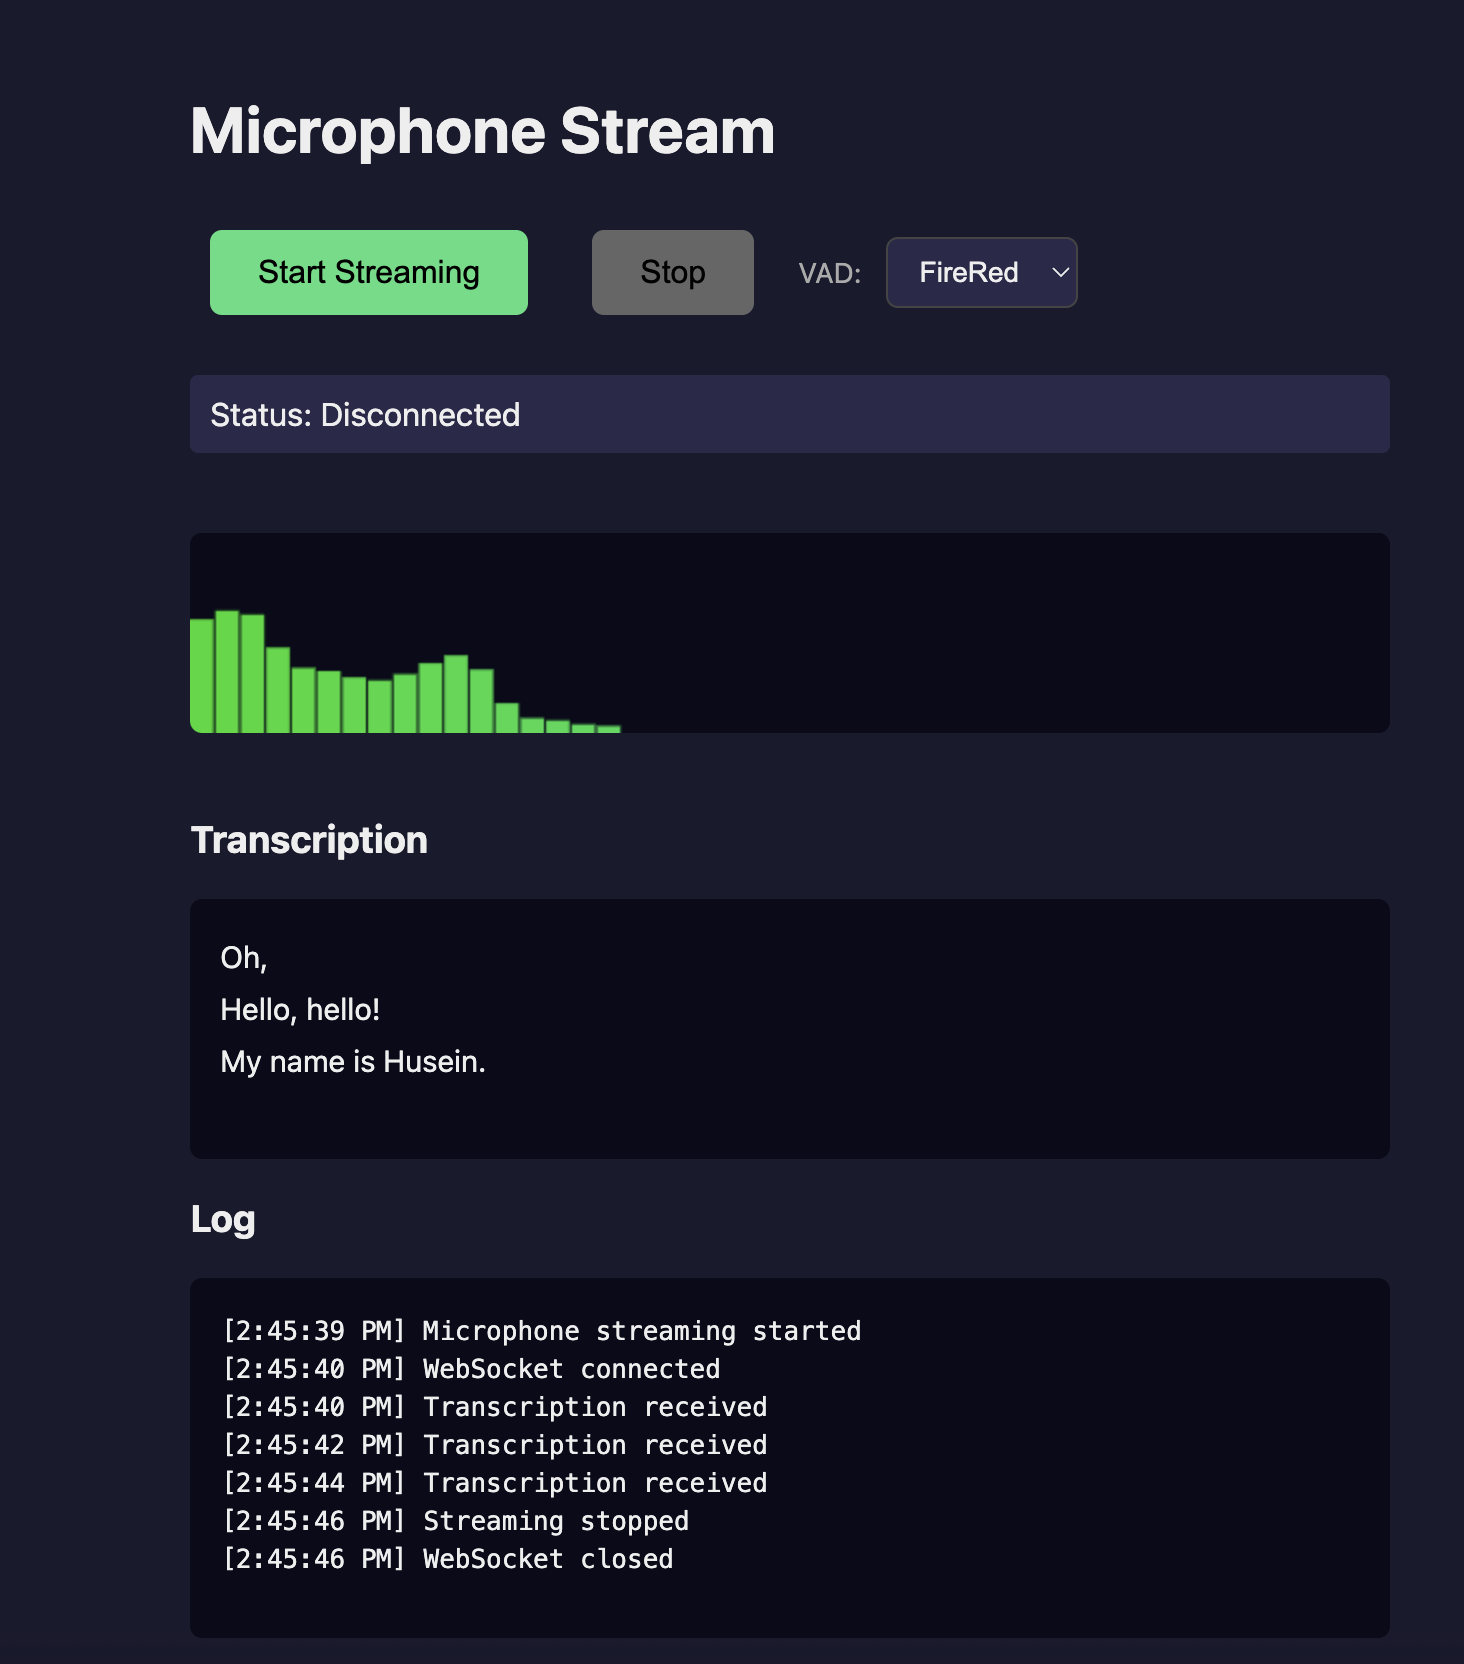
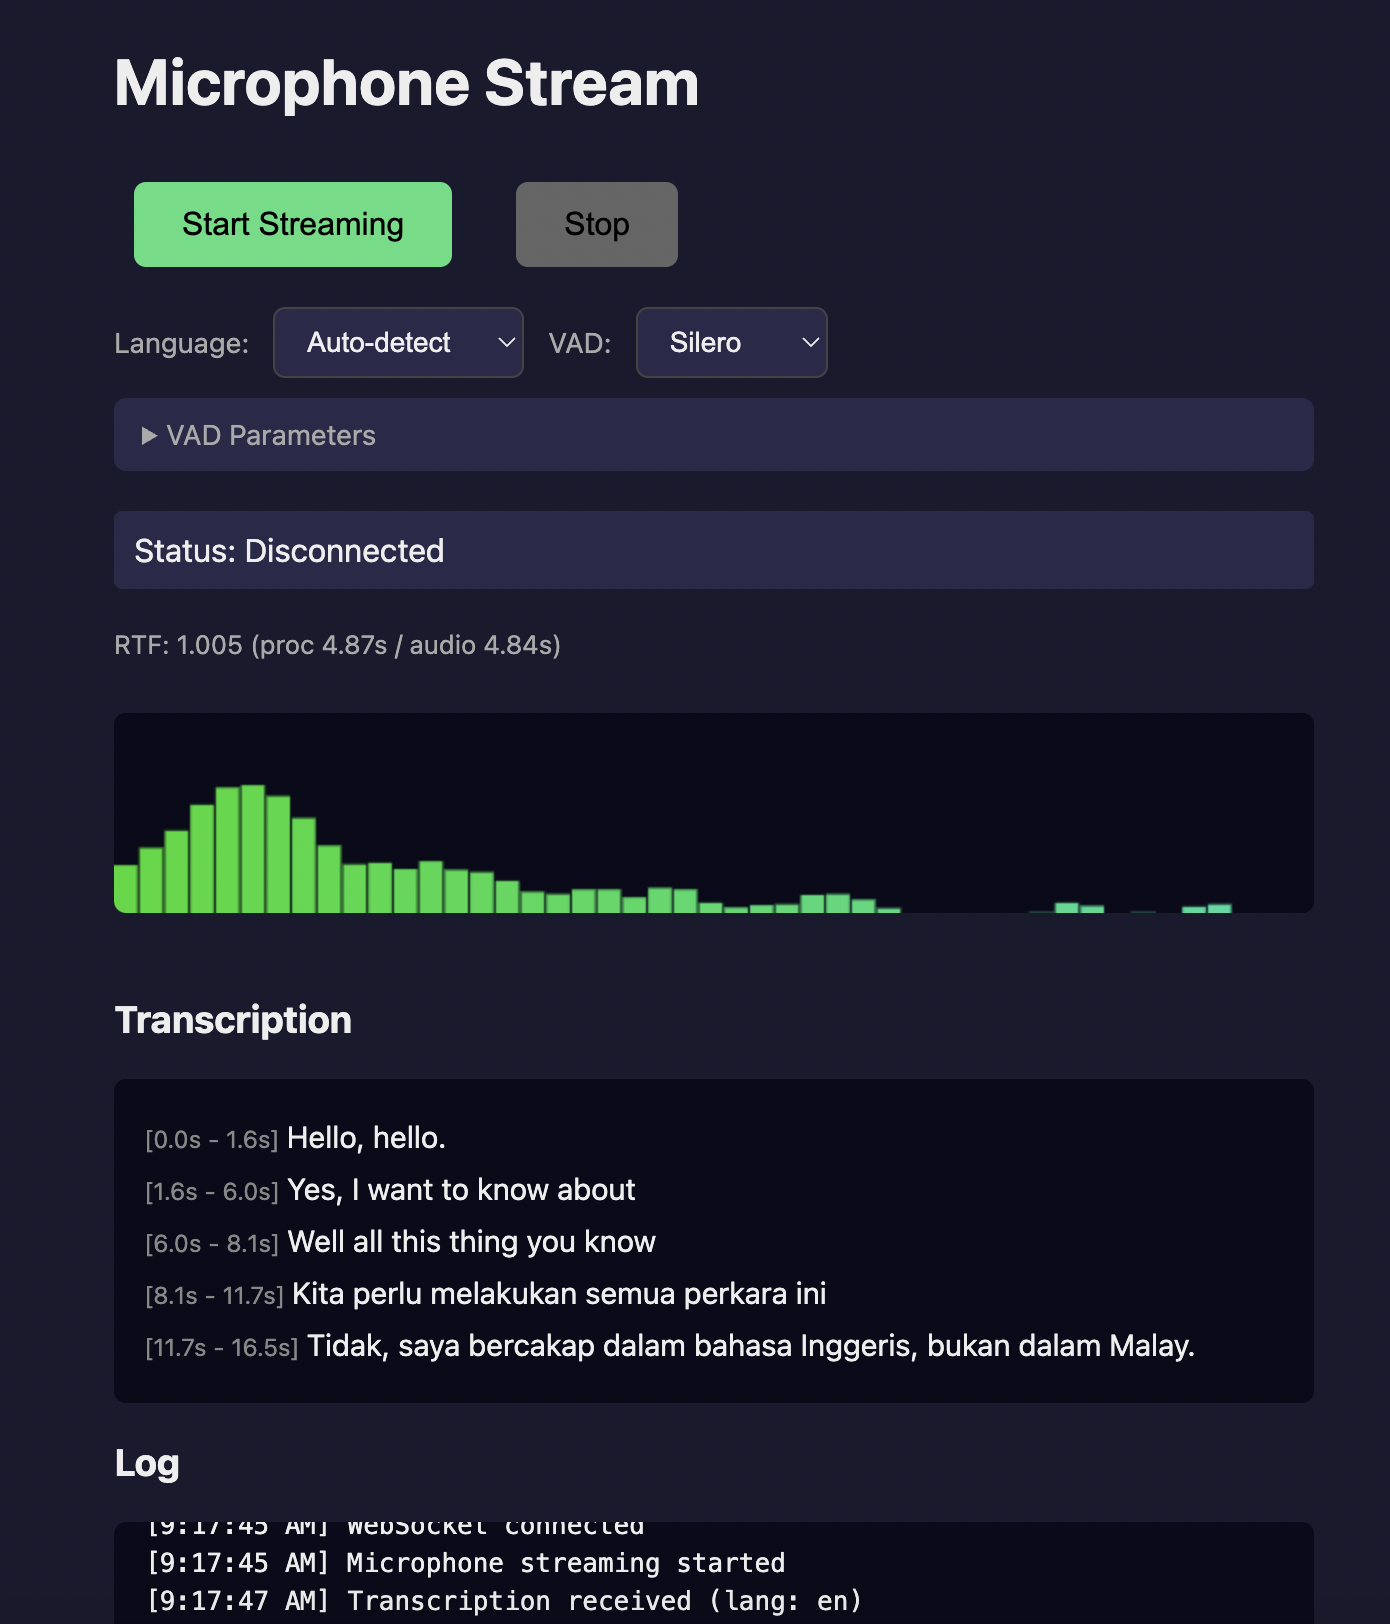
auto detect language

diff --git a/stt_api/streaming.html b/stt_api/streaming.html
@@ -98,6 +98,46 @@
             cursor: pointer;
         }
         select:focus { outline: none; border-color: #4ade80; }
+        .vad-params {
+            background: #2a2a4a;
+            border-radius: 6px;
+            margin: 10px 0;
+        }
+        .vad-params summary {
+            padding: 10px 14px;
+            cursor: pointer;
+            font-size: 14px;
+            color: #aaa;
+            user-select: none;
+        }
+        .vad-params summary:hover { color: #eee; }
+        .vad-params-grid {
+            display: grid;
+            grid-template-columns: 1fr 1fr;
+            gap: 10px;
+            padding: 10px 14px 14px;
+        }
+        .vad-param {
+            display: flex;
+            flex-direction: column;
+            gap: 4px;
+        }
+        .vad-param label {
+            font-size: 12px;
+            color: #888;
+        }
+        .vad-param input {
+            padding: 6px 10px;
+            font-size: 14px;
+            background: #1a1a2e;
+            color: #eee;
+            border: 1px solid #444;
+            border-radius: 4px;
+            width: 100%;
+            box-sizing: border-box;
+        }
+        .vad-param input:focus { outline: none; border-color: #4ade80; }
+        .vad-param input:disabled { opacity: 0.5; cursor: not-allowed; }
     </style>
 </head>
 <body>
@@ -106,6 +146,16 @@
     <div class="controls">
         <button id="startBtn">Start Streaming</button>
         <button id="stopBtn" disabled>Stop</button>
+    </div>
+    <div class="controls">
+        <label for="languageSelect">Language:</label>
+        <select id="languageSelect">
+            <option value="null">Auto-detect</option>
+            <option value="ms">Malay (ms)</option>
+            <option value="en">English (en)</option>
+            <option value="zh">Chinese (zh)</option>
+            <option value="ta">Tamil (ta)</option>
+        </select>
         <label for="vadSelect">VAD:</label>
         <select id="vadSelect">
             <option value="silero">Silero</option>
@@ -113,7 +163,34 @@
         </select>
     </div>
 
+    <details class="vad-params" id="vadParams">
+        <summary>VAD Parameters</summary>
+        <div class="vad-params-grid">
+            <div class="vad-param">
+                <label for="vadThreshold">vad_threshold (0–1)</label>
+                <input type="number" id="vadThreshold" min="0" max="1" step="0.05" value="0.5">
+            </div>
+            <div class="vad-param">
+                <label for="minSilentMs">minimum_silent_ms</label>
+                <input type="number" id="minSilentMs" min="0" step="50" value="400">
+            </div>
+            <div class="vad-param">
+                <label for="minSpeechMs">minimum_speech_ms</label>
+                <input type="number" id="minSpeechMs" min="0" step="50" value="250">
+            </div>
+            <div class="vad-param">
+                <label for="minTriggerVadMs">minimum_trigger_vad_ms</label>
+                <input type="number" id="minTriggerVadMs" min="0" step="100" value="1500">
+            </div>
+            <div class="vad-param">
+                <label for="rejectSegmentVadRatio">reject_segment_vad_ratio (0–1)</label>
+                <input type="number" id="rejectSegmentVadRatio" min="0" max="1" step="0.05" value="0.7">
+            </div>
+        </div>
+    </details>
+
     <div id="status">Status: Ready</div>
+    <div id="rtfDisplay" style="font-size:13px;color:#aaa;margin:4px 0;min-height:18px;"></div>
 
     <canvas id="visualizer"></canvas>
 
@@ -126,7 +203,15 @@
     <script>
         const startBtn = document.getElementById('startBtn');
         const stopBtn = document.getElementById('stopBtn');
+        const languageSelect = document.getElementById('languageSelect');
         const vadSelect = document.getElementById('vadSelect');
+        const rtfDisplay = document.getElementById('rtfDisplay');
+        const vadThresholdInput = document.getElementById('vadThreshold');
+        const minSilentMsInput = document.getElementById('minSilentMs');
+        const minSpeechMsInput = document.getElementById('minSpeechMs');
+        const minTriggerVadMsInput = document.getElementById('minTriggerVadMs');
+        const rejectSegmentInput = document.getElementById('rejectSegmentVadRatio');
+        const vadParamInputs = [vadThresholdInput, minSilentMsInput, minSpeechMsInput, minTriggerVadMsInput, rejectSegmentInput];
         const status = document.getElementById('status');
         const transcription = document.getElementById('transcription');
         const log = document.getElementById('log');
@@ -139,6 +224,8 @@
         let processor = null;
         let analyser = null;
         let animationId = null;
+        let lastTranscriptionTime = null;
+        let lastSegEnd = null;
 
         const BUFFER_SIZE = 4096;
 
@@ -152,7 +239,17 @@
 
         function addTranscription(data) {
             if (data.type === 'transcription') {
+                const now = Date.now();
                 if (data.segments && data.segments.length > 0) {
+                    const segStart = data.segments[0].start;
+                    const segEnd = data.segments[data.segments.length - 1].end;
+                    const audioDur = segEnd - (lastSegEnd !== null ? lastSegEnd : segStart);
+                    if (lastTranscriptionTime !== null && audioDur > 0) {
+                        const procTime = (now - lastTranscriptionTime) / 1000;
+                        const rtf = (procTime / audioDur).toFixed(3);
+                        rtfDisplay.textContent = `RTF: ${rtf}  (proc ${procTime.toFixed(2)}s / audio ${audioDur.toFixed(2)}s)`;
+                    }
+                    lastSegEnd = segEnd;
                     for (const seg of data.segments) {
                         const div = document.createElement('div');
                         div.className = 'segment';
@@ -169,6 +266,7 @@
                     div.textContent = data.text;
                     transcription.appendChild(div);
                 }
+                lastTranscriptionTime = now;
                 transcription.scrollTop = transcription.scrollHeight;
             }
         }
@@ -204,7 +302,16 @@
             try {
                 const selectedVad = vadSelect.value;
                 const wsProto = window.location.protocol === 'https:' ? 'wss' : 'ws';
-                const wsUrl = `${wsProto}://${window.location.host}/ws?language=null&vad=${selectedVad}`;
+                const params = new URLSearchParams({
+                    language: languageSelect.value,
+                    vad: selectedVad,
+                    vad_threshold: vadThresholdInput.value,
+                    minimum_silent_ms: minSilentMsInput.value,
+                    minimum_speech_ms: minSpeechMsInput.value,
+                    minimum_trigger_vad_ms: minTriggerVadMsInput.value,
+                    reject_segment_vad_ratio: rejectSegmentInput.value,
+                });
+                const wsUrl = `${wsProto}://${window.location.host}/ws?${params}`;
                 ws = new WebSocket(wsUrl);
                 ws.binaryType = 'arraybuffer';
 
@@ -275,9 +382,14 @@
                 status.textContent = 'Status: Streaming...';
                 addLog('Microphone streaming started');
 
+                lastTranscriptionTime = null;
+                lastSegEnd = null;
+                rtfDisplay.textContent = '';
                 startBtn.disabled = true;
                 stopBtn.disabled = false;
+                languageSelect.disabled = true;
                 vadSelect.disabled = true;
+                vadParamInputs.forEach(i => i.disabled = true);
 
                 drawVisualizer();
 
@@ -323,7 +435,9 @@
 
             startBtn.disabled = false;
             stopBtn.disabled = true;
+            languageSelect.disabled = false;
             vadSelect.disabled = false;
+            vadParamInputs.forEach(i => i.disabled = false);
         }
 
         startBtn.addEventListener('click', startStreaming);

diff --git a/stt_api/transcribe.html b/stt_api/transcribe.html
@@ -340,6 +340,7 @@
             if (data.language) addMeta('Language', data.language);
             if (data.duration) addMeta('Duration', formatTime(data.duration));
             addMeta('Time', elapsed + 's');
+            if (data.duration) addMeta('RTF', (parseFloat(elapsed) / data.duration).toFixed(3));
             if (data.segments && data.segments.length) {
                 addMeta('Segments', data.segments.length);
                 for (const seg of data.segments) {

diff --git a/stt_api/main.py b/stt_api/main.py
@@ -842,15 +842,10 @@ async def _process_transcription(
     t_total_start = time.time()
     logger.info(f"Request: language={language}, diarization={diarization}, vad={vad}")
 
-    if language is None:
-        language = "null"
+    if isinstance(language, str) and language.lower() in {"none", "null"}:
+        language = None
     else:
         language = language.lower().strip()
-
-    if language not in {"none", "null", "en", "ms", "zh", "ta"}:
-        raise HTTPException(
-            status_code=400, detail="language only supports: none, null, en, ms, zh, ta"
-        )
 
     response_format = response_format.lower().strip()
     if response_format not in {"text", "json", "verbose_json"}:
@@ -1273,7 +1268,6 @@ async def websocket_stt(
                 language=language,
                 timestamp_granularities="segment",
                 last_timestamp=last_ts,
-                response_format="text",
             )
         except HTTPException as e:
             try:

diff --git a/README.md b/README.md
@@ -137,14 +137,14 @@ docker network create stt-network
 ### 2. Run vLLM
 
 ```bash
-docker compose -f vllm.yaml up --detach
+docker compose -f vllm.yaml up --build --detach
 ```
 
 Or with a private model (create `.env_vllm` with `HUGGING_FACE_HUB_TOKEN=`):
 
 ```bash
 STT_MODEL=openai/whisper-large-v3-turbo GPU_MEM_UTIL=0.7 \
-docker compose -f vllm.yaml up --detach
+docker compose -f vllm.yaml up --build --detach
 ```
 
 ### 3. Configure Environment (Optional)
